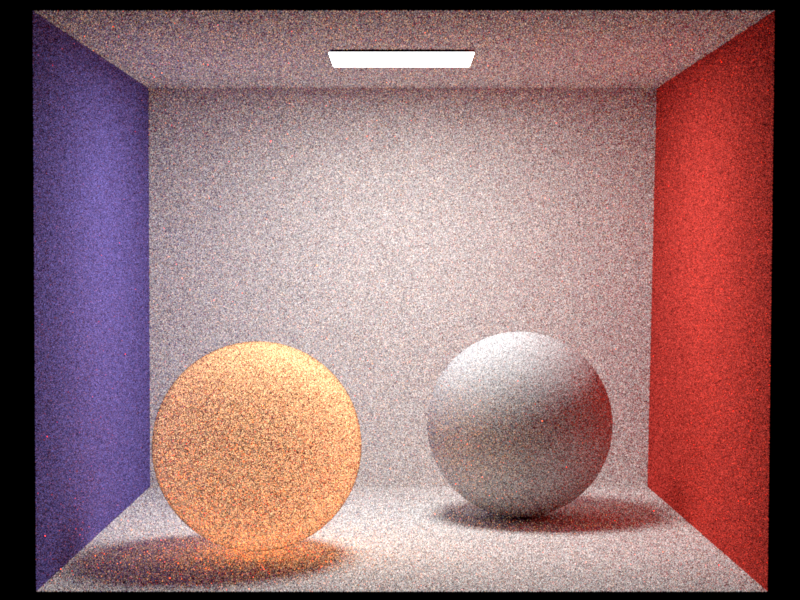
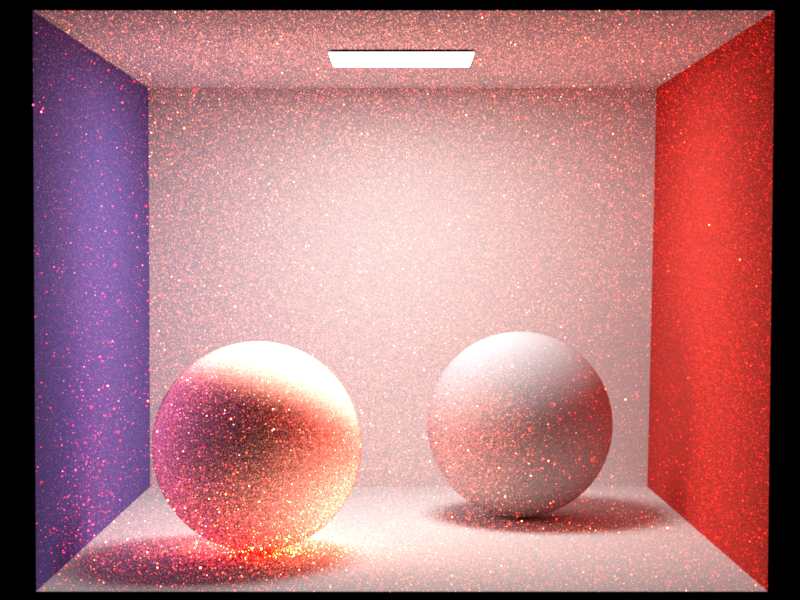
asdasd

diff --git a/src/subsurfaceDisney.cpp b/src/subsurfaceDisney.cpp
@@ -37,23 +37,17 @@ public:
     {
         m_albedo = new ConstantSpectrumTexture(propList.getColor("albedo", Color3f(0.5f)));
 
-        sigmaA = propList.getColor("sigmaA", Color3f(0.0f));
-        sigmaS = propList.getColor("sigmaS", Color3f(0.0f));
+        ld = propList.getColor("ld", Color3f(0.0f)); // ld is in mm
         
-        scale = 1.0f/1000.0f; // Sigmas are in mm^-1
+        //scale = 1.0f/1000.0f; // Sigmas are in mm^-1
 
         etaT = propList.getFloat("eta", 1.0f);
 
-        sigmaT = (sigmaA + sigmaS);
-
         // Constant used on the sampling method
-        Color3f D = (sigmaT + sigmaA) / (3.0f * Math::pow2(sigmaT));
-        Color3f sigmaTr = Math::sqrt(sigmaA/D);
-        ld = 1.0f / sigmaTr;
-
-        precomputeSrCdfInverse();
+        //Color3f D = (sigmaT + sigmaA) / (3.0f * Math::pow2(sigmaT));
+        //Color3f sigmaTr = Math::sqrt(sigmaA/D);
+        //ld = 1.0f / sigmaTr;
     }
-
 
     Color3f scalingFactor(Point2f uv) const
     {
@@ -61,39 +55,6 @@ public:
 
         Color3f scalingFactor = 3.5f + 100*Math::pow4(kd - 0.33f);
         return scalingFactor;
-    }
-
-    float SrCdf(float r) const
-    {
-        return 1.0 - 0.25 * Math::exp(-r) - 0.75 * Math::exp(-r/3);
-    }
-
-    void precomputeSrCdfInverse()
-    {
-        size_t steps = 1024;
-        float x0 = 0.0f;
-
-        SrCdfInverse.resize(steps+1);
-        XICdfInverse.resize(steps+1);
-
-        for (size_t i = 0; i < steps; i++)
-        {
-            float xi = float(i) / steps;
-            auto f = [this, xi](float r) { return SrCdf(r) - xi; };
-            float r = Math::findRoot(f, x0);
-
-            x0 = r;
-            SrCdfInverse[i] = r;
-            XICdfInverse[i] = xi;
-        }
-
-        // Compute a final step close to 1
-        //  to allow interpolation on the last element
-        float last_step = 1.0f - (1.0f / steps) / 8.0f;
-        auto f = [this, last_step](float r) { return SrCdf(r) - last_step; };
-        float r = Math::findRoot(f, x0);
-        SrCdfInverse[steps] = r;
-        XICdfInverse[steps] = last_step;
     }
 
     Color3f Rdisney(float scatterDistance) const
@@ -110,9 +71,10 @@ public:
 
     Color3f Sr_(float r, Point2f uv) const
     {
-        r /= scale;
+        //r /= scale;
 
-        if (r < 1e-3f)
+        // This formula has a singularity at r = 0
+        if (r < 1e-4f)
             return Color3f(1.0f);
 
         Color3f s = scalingFactor(uv);
@@ -124,6 +86,8 @@ public:
         
         Color3f result = (num1 + num2) / den;
 
+        //std::cout << "Sr: " + result.toString() << std::endl;
+
         return result;
     }
 
@@ -134,41 +98,25 @@ public:
         return result * m_albedo->eval(uv);
     }
 
-    float sampleSr(float rnd, int channel, Point2f uv) const
-    {
-        /*
-        size_t steps = SrCdfInverse.size() - 1;
-        int i_xi = Math::floor(rnd * steps);
-
-        float r1 = SrCdfInverse[i_xi];
-        float r2 = SrCdfInverse[i_xi + 1];
-
-        float x1 = XICdfInverse[i_xi];
-        float x2 = XICdfInverse[i_xi + 1];
-
-        float r = Math::lerp(r1, r2, (rnd - x1) / (x2 - x1));
-        
-        Color3f s = scalingFactor(uv);
-        Color3f d = ld / s;
-        r *= d[channel];
-        */
-        
+    // Sr CDF^-1
+    float sampleSr(float rnd, int channel, Point2f uv, float &pdfInv) const
+    {        
         float rcpS = 1 / scalingFactor(uv)[channel];
 
         rnd = 1 - rnd; // Convert CDF to CCDF; the resulting value of (u != 0)
 
         float g = 1 + (4 * rnd) * (2 * rnd + sqrt(1 + (4 * rnd) * rnd));
-        float n = exp2(log2(g) * (-1.0/3.0));                    // g^(-1/3)
-        float p = (g * n) * n;                                   // g^(+1/3)
-        float c = 1 + p + n;                                     // 1 + g^(+1/3) + g^(-1/3)
-        float x = (3 / LOG2_E) * log2(c / (4 * rnd));           // 3 * Log[c / (4 * rnd)]
+        float n = exp2(log2(g) * (-1.0/3.0));            // g^(-1/3)
+        float p = (g * n) * n;                           // g^(+1/3)
+        float c = 1 + p + n;                             // 1 + g^(+1/3) + g^(-1/3)
+        float x = (3 / LOG2_E) * log2(c / (4 * rnd));    // 3 * Log[c / (4 * rnd)]
 
-        //float rcpExp = ((c * c) * c) / ((4 * rnd) * ((c * c) + (4 * rnd) * (4 * rnd)));
+        float rcpExp = ((c * c) * c) / ((4 * rnd) * ((c * c) + (4 * rnd) * (4 * rnd)));
 
-        float r      = x * rcpS;
-        //rcpPdf = (8 * PI * rcpS) * rcpExp; // (8 * Pi) / s / (Exp[-s * r / 3] + Exp[-s * r])
+        float r = x * rcpS;
+        pdfInv = (8 * M_PI * rcpS) * rcpExp; // (8 * Pi) / s / (Exp[-s * r / 3] + Exp[-s * r])
 
-        return r * scale; // Convert to meters
+        return r;
     }
 
     double sampleSrPdf(float r, int channel, Point2f uv) const
@@ -211,7 +159,7 @@ public:
         //}
 
         bool validSample = false;
-        float itsPdf;
+        float itsPdf, srPdfInv;
 
         while (!validSample)
         {
@@ -245,14 +193,14 @@ public:
             rnd = rnd * 3.0f - channel; // Adjust random sample
 
             // Select sphere radius
-            float rMax = sampleSr(0.9999f, channel, bRec.uv);
+            float rMax = sampleSr(0.9999f, channel, bRec.uv, srPdfInv);
 
             float r;
             do {
-                r = sampleSr(sampler->next1D(), channel, bRec.uv);
+                r = sampleSr(sampler->next1D(), channel, bRec.uv, srPdfInv);
             }
             while (r > rMax);
-           
+
             // Sample a point on the disk
             float l = 2.0f * Math::sqrt(Math::pow2(rMax) - Math::pow2(r));
             float th = 2 * M_PI * sampler->next1D();
@@ -357,7 +305,7 @@ public:
         float Ft_o = 1 - fresnel(cosWo, 1.0, eta);
         float Ft_i = 1 - fresnel(cosWi, 1.0, eta);
 
-        Color3f Sd = INV_PI *  Rd ;
+        Color3f Sd = INV_PI * Ft_o * Rd * Ft_i;
         
         return Sd;
     } 

diff --git a/src/subsurface.cpp b/src/subsurface.cpp
@@ -40,7 +40,7 @@ public:
         sigmaA = propList.getColor("sigmaA", Color3f(0.0f));
         sigmaS = propList.getColor("sigmaS", Color3f(0.0f));
         
-        scale = 1.0f/1.0f; // Sigmas are in mm^-1
+        scale = 1.0f/1000.0f; // Sigmas are in mm^-1
 
         etaT = propList.getFloat("eta", 1.0f);
         float eta = 1.0f / etaT;
@@ -142,7 +142,7 @@ public:
 
     double sampleSrPdf(float r, int channel) const
     {
-        return Sr_(r)[channel];
+        return dipoleDiffusionAproximation(r)[channel];
     }
 
     /// Evaluate the BRDF model

diff --git a/plot.py b/plot.py
@@ -61,7 +61,8 @@ def Sr_(r):
     s = scalingFactor()
     D = (_sigmaT + sigmaA) / (3.0 * _sigmaT*_sigmaT)
     ld = 1.0 / np.sqrt(sigmaA/D)
-    d = 1 / s
+    ld = 0.1
+    d = ld / s
 
     num1 = np.exp(-r / d)
     num2 = np.exp(-r / (3 * d))
@@ -74,7 +75,7 @@ def Sr_(r):
 
 def Sr(r):
 
-    kd = 0.9
+    kd = 1
     return Sr_(r) * kd
 
 def expDecay(epsilon):
